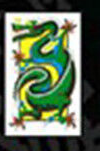
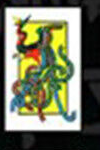
Fixed Phoenix and Dragon being swapped Added Phoenix Capability as single card

diff --git a/src/common/game_state/game_state.cpp b/src/common/game_state/game_state.cpp
@@ -299,7 +299,7 @@ bool game_state::add_player(const player_ptr player_ptr, std::string& err) {
         err = "Could not join game, because the requested game is already started.";
         return false;
     }
-    if (_is_finished) {
+    if (_is_game_finished) {
         err = "Could not join game, because the requested game is already finished.";
         return false;
     }
@@ -318,8 +318,8 @@ bool game_state::add_player(const player_ptr player_ptr, std::string& err) {
     return true;
 }
 
-void game_state::update_current_player(player &player, bool is_pass, std::string& err) {
-    if(is_pass) {
+void game_state::update_current_player(player &player, bool is_dog, std::string& err) {
+    if(is_dog) {
         _next_player_idx = (_next_player_idx + 1) % 4;
     }
     do {
@@ -361,9 +361,9 @@ void game_state::wrap_up_player(player &player, std::string &err) {
 }
 
 //   [Game Logic]
-bool game_state::play_combi(player &player, const card_combination& combi, std::string &err) {
-    _is_round_over = false;
-    _is_trick_over = false;
+bool game_state::play_combi(player &player, card_combination& combi, std::string &err) {
+    _is_round_finished = false;
+    _is_trick_finished = false;
     int player_idx = get_player_index(player);
     if(player_idx < 0 || player_idx > 3){
         err = "couldn't find player index";
@@ -377,7 +377,7 @@ bool game_state::play_combi(player &player, const card_combination& combi, std::
         err = "It's not this players turn yet.";
         return false;
     }
-    if (_is_finished) {
+    if (_is_game_finished) {
         err = "Could not play card, because the requested game is already finished.";
         return false;
     }
@@ -398,7 +398,9 @@ bool game_state::play_combi(player &player, const card_combination& combi, std::
         
 
         // checks if player, trick, round or game is finished
-        if( check_is_player_finished(player, err) ) { wrap_up_player(player, err); } 
+        if( check_is_player_finished(player, err) ) { 
+            wrap_up_player(player, err); 
+        } 
         if( check_is_trick_finished(player, err) ) { 
             wrap_up_trick(player, err); 
             if( check_is_round_finished(player, err) ) { 

diff --git a/src/client/GameController.cpp b/src/client/GameController.cpp
@@ -173,32 +173,17 @@ void GameController::showStatus(const std::string& message) {
 
 void GameController::showNewRoundMessage(const game_state &oldGameState, const game_state &newGameState) {
     std::string title = "Round Completed";
-    std::string message = "The players gained the following minus points:\n";
+    std::string message = "The teams have the following points:\n";
     std::string buttonLabel = "Start next round";
 
-    // add the point differences of all players to the messages
-    for(int i = 0; i < oldGameState.get_players().size(); i++) {
+        std::string scoreText_A = std::to_string(newGameState.get_score_team_A());
+        std::string Name_team_A = "Team A: ";
+        message += "\n" + Name_team_A + ":     " + scoreText_A;
 
-        const player &oldPlayerState = *(oldGameState.get_players().at(i));
-        const player &newPlayerState = *(newGameState.get_players().at(i));
-
-        int scoreDelta;
-        if((i % 2) == 0) {
-            scoreDelta = newGameState.get_score_team_A() - oldGameState.get_score_team_A();
-        } else {
-            scoreDelta = newGameState.get_score_team_B() - oldGameState.get_score_team_B();
-        }
-        std::string scoreText = std::to_string(scoreDelta);
-        if(scoreDelta > 0) {
-            scoreText = "+" + scoreText;
-        }
-
-        std::string playerName = newPlayerState.get_player_name();
-        if(newPlayerState.get_id() == GameController::_me.value().get_id()) {
-            playerName = "You";
-        }
-        message += "\n" + playerName + ":     " + scoreText;
-    }
+        std::string scoreText_B = std::to_string(newGameState.get_score_team_B());
+        std::string Name_team_B = "Team B: ";
+        message += "\n" + Name_team_B + ":     " + scoreText_B;
+    
 
     wxMessageDialog dialogBox = wxMessageDialog(nullptr, message, title, wxICON_NONE);
     dialogBox.SetOKLabel(wxMessageDialog::ButtonLabel(buttonLabel));

diff --git a/unit-tests/combi.cpp b/unit-tests/combi.cpp
@@ -17,10 +17,16 @@ TEST(CombiTest, Singles){
     single_king.push_back(Card(KING, BLUE, 10));
     card_combination combi_single_king(single_king);
 
+    std::vector<Card> dragon;
+    dragon.push_back(DRAGON);
+    card_combination combi_dragon(dragon);
+
     EXPECT_EQ(combi_single_two.get_combination_type(), SINGLE);
     EXPECT_EQ(combi_single_two.get_combination_rank(), TWO);
     EXPECT_EQ(combi_single_king.get_combination_type(), SINGLE);
     EXPECT_EQ(combi_single_king.get_combination_rank(), KING);
+    EXPECT_EQ(combi_dragon.get_combination_rank(), 15);
+    EXPECT_EQ(combi_dragon.get_combination_rank(), 15);
 }
 
 TEST(CombiTest, Doubles){
@@ -158,6 +164,14 @@ TEST(CombiTest, CanBePlayedOn) {
     single_king.push_back(Card(KING, BLUE, 10));
     card_combination combi_single_king(single_king);
 
+    std::vector<Card> phoenix;
+    phoenix.push_back(PHONIX);
+    card_combination combi_phoenix(PHONIX);
+
+    std::vector<Card> dragon;
+    dragon.push_back(DRAGON);
+    card_combination combi_dragon(dragon);
+
     std::vector<Card> double_three;
     double_three.push_back(Card(THREE, SCHWARZ, 0));
     double_three.push_back(Card(THREE, GREEN , 0));
@@ -243,6 +257,13 @@ TEST(CombiTest, CanBePlayedOn) {
     // SINGLE
     EXPECT_EQ(combi_single_king.can_be_played_on(combi_single_two, err), true);
     EXPECT_EQ(combi_single_two.can_be_played_on(combi_single_king, err), false);
+
+    // DRAGON & PHOENIX
+    EXPECT_EQ(combi_phoenix.can_be_played_on(combi_single_two, err), true);
+    EXPECT_EQ(combi_phoenix.get_combination_rank(), 2);
+    EXPECT_EQ(combi_phoenix.can_be_played_on(combi_single_king, err), true);
+    EXPECT_EQ(combi_phoenix.get_combination_rank(), 13);
+    EXPECT_EQ(combi_phoenix.can_be_played_on(combi_dragon, err), false);
     
     // DOUBLE
     EXPECT_EQ(combi_double_ace.can_be_played_on(combi_double_three, err), true);

diff --git a/src/common/game_state/cards/card_combination.cpp b/src/common/game_state/cards/card_combination.cpp
@@ -43,7 +43,7 @@ bool card_combination::are_all_same_rank() {
 }
 
 void card_combination::update_combination_type_and_rank() {
-
+    // making sure cards are sorted before determining type / rank
     std::sort(_cards.begin(), _cards.end());
     
     int size = _cards.size();
@@ -250,7 +250,8 @@ void card_combination::update_combination_type_and_rank() {
     return; 
 }
 
-bool card_combination::can_be_played_on(const std::optional<card_combination> &other_opt, std::string & err) const {
+bool card_combination::can_be_played_on(const std::optional<card_combination> &other_opt, std::string & err) {
+    update_combination_type_and_rank();
     //nothing
     if(this->_combination_type == NONE) {
         err = "Invalid combination";
@@ -278,6 +279,20 @@ bool card_combination::can_be_played_on(const std::optional<card_combination> &o
             }
     }
     
+    // single Phoenix
+    if(this->_combination_type == SINGLE && this->_combination_rank == -1) {
+        if(other.get_combination_type() == SINGLE) {
+            if(other.get_combination_rank() != 15) {
+                _combination_rank = other.get_combination_rank();
+                return true;
+            } else {
+                return false;
+            }
+        } else {
+            return false;
+        }
+    }
+
     if( this->_combination_type == other.get_combination_type() 
         && this->get_cards().size() == other.get_cards().size()) {
         if( this->_combination_rank > other.get_combination_rank()) {

diff --git a/src/server/game_instance.cpp b/src/server/game_instance.cpp
@@ -24,7 +24,7 @@ bool game_instance::is_started() {
 }
 
 bool game_instance::is_finished() {
-    return _game_state.is_finished();
+    return _game_state.is_game_finished();
 }
 
 void broadcast_full_state_response(const game_state &state, player_ptr player) {
@@ -33,7 +33,7 @@ void broadcast_full_state_response(const game_state &state, player_ptr player) {
     server_network_manager::broadcast_message(resp, state.get_players(), player);
 }
 
-bool game_instance::play_combi(player_ptr player, const card_combination& combi, std::string& err) {
+bool game_instance::play_combi(player_ptr player, card_combination& combi, std::string& err) {
     modification_lock.lock();
     if (_game_state.play_combi(*player, combi, err)) {
         broadcast_full_state_response(_game_state, player);

diff --git a/unit-tests/serialization.cpp b/unit-tests/serialization.cpp
@@ -163,7 +163,7 @@ TEST(SerializationTest, FullStateResponse) {
 
     auto draw = draw_pile(all_cards[4]);
     std::vector<player> round_finish_order = std::vector<player>();
-    auto state = game_state(UUID::create(), players, round_finish_order, draw, active_pile(), 42, 60, 0, 0, false, false, 4);
+    auto state = game_state(UUID::create(), players, round_finish_order, draw, active_pile(), 42, 60, 0, 0, false, false, false, false, 4);
     auto send_json = state.to_json();
 
     print_json(*send_json);

diff --git a/src/common/game_state/cards/card_combination.h b/src/common/game_state/cards/card_combination.h
@@ -33,7 +33,7 @@ public:
     int count_occurances(Card card);
     bool are_all_same_rank();
     void update_combination_type_and_rank();
-    bool can_be_played_on(const std::optional<card_combination> &other, std::string &err) const;
+    bool can_be_played_on(const std::optional<card_combination> &other, std::string &err);
 
 // serializable interface
     void write_into_json(rapidjson::Value& json, rapidjson::Document::AllocatorType& allocator) const override;

diff --git a/src/common/game_state/player/won_cards_pile.cpp b/src/common/game_state/player/won_cards_pile.cpp
@@ -20,14 +20,14 @@ void won_cards_pile::wrap_up_round() {
     _cards.clear();
 }
 
-void won_cards_pile::add_cards(const Card &new_card, std::string &err) {
+void won_cards_pile::add_card(const Card &new_card) {
     _cards.push_back(new_card);
 }
 
 void won_cards_pile::add_cards(const card_combination &combi){
     std::vector<Card> cards = combi.get_cards();
     for(Card card : cards) {
-        add_cards(card);
+        add_card(card);
     }
 }
 

diff --git a/src/server/game_instance.h b/src/server/game_instance.h
@@ -32,8 +32,7 @@ public:
     bool start_game(player_ptr player, std::string& err);
     bool try_add_player(player_ptr new_player, std::string& err);
     bool try_remove_player(player_ptr player, std::string& err);
-    bool play_combi(player_ptr player, const card_combination& combi, std::string& err);
-    bool draw_card(player_ptr player, std::string& err);
+    bool play_combi(player_ptr player, card_combination& combi, std::string& err);
 
 };
 

diff --git a/src/common/game_state/player/won_cards_pile.h b/src/common/game_state/player/won_cards_pile.h
@@ -21,7 +21,7 @@ public:
 #ifdef TICHU_SERVER
 // state update functions
     void wrap_up_round();
-    void add_cards(const Card &card, std::string &err);
+    void add_card(const Card &card);
     void add_cards(const card_combination &combi);
     void add_cards(const std::vector<card_combination> &combis);
 #endif

diff --git a/src/common/game_state/game_state.h b/src/common/game_state/game_state.h
@@ -109,7 +109,7 @@ public:
     void wrap_up_player(player &player, std::string &err);
 
 
-    bool play_combi(player &player, const card_combination& combi, std::string& err);
+    bool play_combi(player &player, card_combination& combi, std::string& err);
     
 
 #endif
